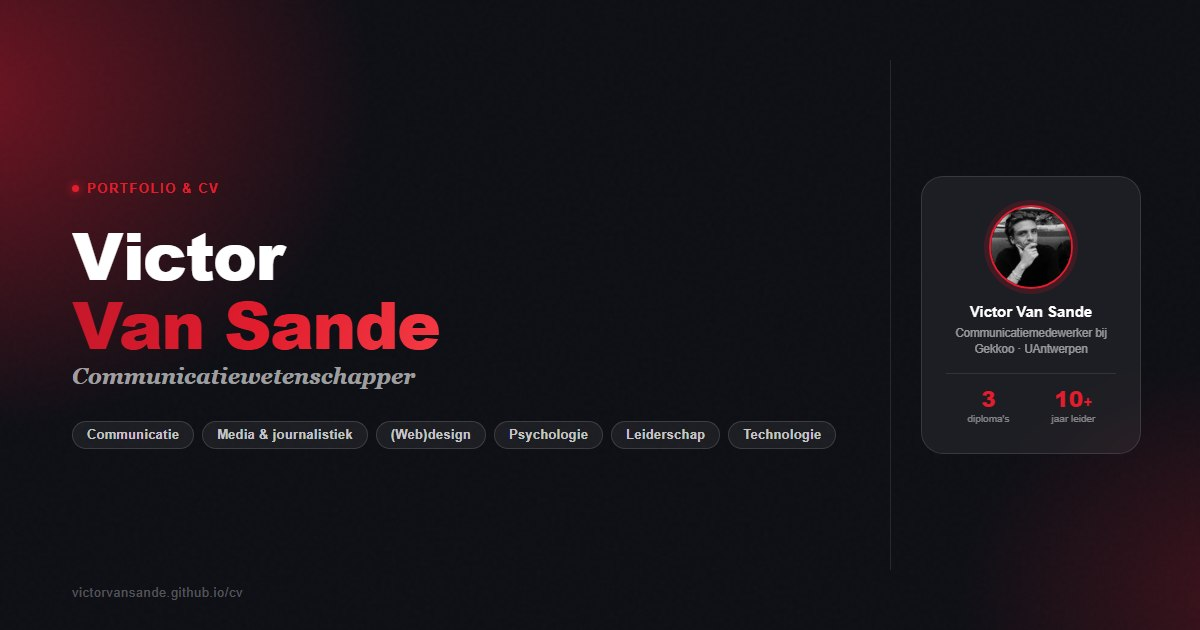
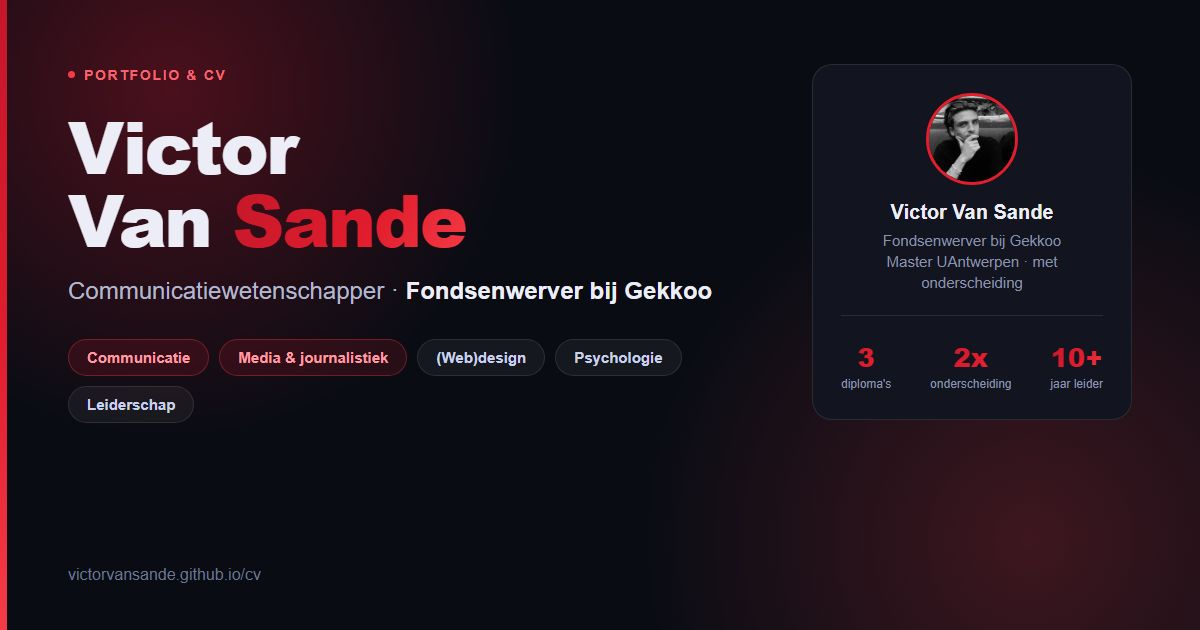
Link-preview afbeelding (og-image) vernieuwd en up-to-date gemaakt
- Nieuwe og-source.html toegevoegd als herbruikbare bron: een 1200x630
  pagina die de echte huidige huisstijl (rood/rose-thema, glass-card)
  van de site volgt, gescreenshot via headless Edge (zelfde pipeline
  als cv-print.html -> PDF)
- og-image.jpg volledig herbouwd: toont nu de actuele rol
  "Fondsenwerver bij Gekkoo" i.p.v. de verouderde "Communicatiemedewerker"
- Inhoud beperkt tot de essentie (naam, rol, kerncompetenties, diploma's)
  zodat het compact en professioneel oogt in link-previews
- Oude, losstaande og-gen.html (canvas-script dat niet meer overeenkwam
  met de huidige styling) verwijderd

diff --git a/assets/og-source.html b/assets/og-source.html
@@ -1,0 +1,110 @@
+<!doctype html>
+<html>
+<head>
+<meta charset="UTF-8" />
+<title>OG image source</title>
+<link rel="preconnect" href="https://fonts.googleapis.com" />
+<link rel="preconnect" href="https://fonts.gstatic.com" crossorigin />
+<link href="https://fonts.googleapis.com/css2?family=Inter:wght@400;500;600;700;800&family=Plus+Jakarta+Sans:wght@700;800&display=swap" rel="stylesheet" />
+<style>
+  * { margin: 0; padding: 0; box-sizing: border-box; }
+  html, body { width: 1200px; height: 630px; overflow: hidden; }
+  body {
+    font-family: "Inter", Arial, sans-serif;
+    background: #0a0c14;
+    position: relative;
+    color: #ecedf6;
+  }
+  .blob1 {
+    position: absolute; top: -260px; left: -180px; width: 700px; height: 700px; border-radius: 50%;
+    background: radial-gradient(circle, rgba(196,23,42,0.35), transparent 70%);
+  }
+  .blob2 {
+    position: absolute; bottom: -300px; right: -220px; width: 780px; height: 780px; border-radius: 50%;
+    background: radial-gradient(circle, rgba(246,59,70,0.22), transparent 70%);
+  }
+  .bar {
+    position: absolute; left: 0; top: 0; bottom: 0; width: 7px;
+    background: linear-gradient(180deg, #c4172a, #e11d2e 55%, #f63b46);
+  }
+  .stage { position: relative; width: 1200px; height: 630px; padding: 64px 68px; }
+  .eyebrow {
+    display: inline-flex; align-items: center; gap: 9px;
+    font-size: 14px; font-weight: 700; letter-spacing: .12em; text-transform: uppercase;
+    color: #f6636e; margin-bottom: 26px;
+  }
+  .eyebrow .dot { width: 7px; height: 7px; border-radius: 50%; background: #f63b46; }
+  h1 {
+    font-family: "Plus Jakarta Sans", Inter, sans-serif;
+    font-weight: 800; letter-spacing: -0.03em; line-height: 1.02;
+    font-size: 72px; color: #ecedf6;
+  }
+  h1 .accent {
+    background: linear-gradient(120deg, #c4172a, #e11d2e 60%, #f63b46);
+    -webkit-background-clip: text; background-clip: text; color: transparent;
+  }
+  .role {
+    margin-top: 22px; font-size: 24px; font-weight: 500; color: #b2b7cc;
+  }
+  .role strong { color: #ecedf6; font-weight: 700; }
+  .chips { margin-top: 34px; display: flex; gap: 10px; flex-wrap: wrap; max-width: 720px; }
+  .chip {
+    font-size: 15px; font-weight: 600; padding: 9px 18px; border-radius: 999px;
+    background: rgba(255,255,255,0.05); border: 1px solid rgba(255,255,255,0.10); color: #c8d2ee;
+  }
+  .chip.hi { background: rgba(196,23,42,0.16); border-color: rgba(246,59,70,0.35); color: #ff9aa2; }
+  .url {
+    position: absolute; left: 68px; bottom: 46px;
+    font-size: 16px; font-weight: 500; color: #6c7590;
+  }
+  .card {
+    position: absolute; top: 64px; right: 68px; width: 320px;
+    background: #12151f; border: 1px solid rgba(255,255,255,0.10); border-radius: 20px;
+    padding: 28px; text-align: center;
+  }
+  .avatar {
+    width: 92px; height: 92px; border-radius: 50%; object-fit: cover; margin: 0 auto 16px;
+    border: 3px solid #e11d2e; display: block;
+  }
+  .card .name { font-size: 20px; font-weight: 700; color: #ecedf6; margin-bottom: 6px; }
+  .card .role-line { font-size: 15px; color: #8b92ac; line-height: 1.4; }
+  .card .div { height: 1px; background: rgba(255,255,255,0.10); margin: 22px 0; }
+  .stats { display: flex; justify-content: space-between; }
+  .stat .num {
+    font-family: "Plus Jakarta Sans", Inter, sans-serif; font-weight: 800;
+    font-size: 26px; background: linear-gradient(120deg, #c4172a, #e11d2e 60%, #f63b46);
+    -webkit-background-clip: text; background-clip: text; color: transparent;
+  }
+  .stat .lbl { font-size: 12px; color: #8b92ac; margin-top: 2px; }
+</style>
+</head>
+<body>
+  <div class="blob1"></div>
+  <div class="blob2"></div>
+  <div class="bar"></div>
+  <div class="stage">
+    <span class="eyebrow"><span class="dot"></span> Portfolio &amp; CV</span>
+    <h1>Victor<br>Van <span class="accent">Sande</span></h1>
+    <p class="role">Communicatiewetenschapper &middot; <strong>Fondsenwerver bij Gekkoo</strong></p>
+    <div class="chips">
+      <span class="chip hi">Communicatie</span>
+      <span class="chip hi">Media &amp; journalistiek</span>
+      <span class="chip">(Web)design</span>
+      <span class="chip">Psychologie</span>
+      <span class="chip">Leiderschap</span>
+    </div>
+    <span class="url">victorvansande.github.io/cv</span>
+    <div class="card">
+      <img class="avatar" src="victor-profiel.jpg" alt="" />
+      <div class="name">Victor Van Sande</div>
+      <div class="role-line">Fondsenwerver bij Gekkoo<br>Master UAntwerpen &middot; met onderscheiding</div>
+      <div class="div"></div>
+      <div class="stats">
+        <div class="stat"><div class="num">3</div><div class="lbl">diploma's</div></div>
+        <div class="stat"><div class="num">2x</div><div class="lbl">onderscheiding</div></div>
+        <div class="stat"><div class="num">10+</div><div class="lbl">jaar leider</div></div>
+      </div>
+    </div>
+  </div>
+</body>
+</html>
